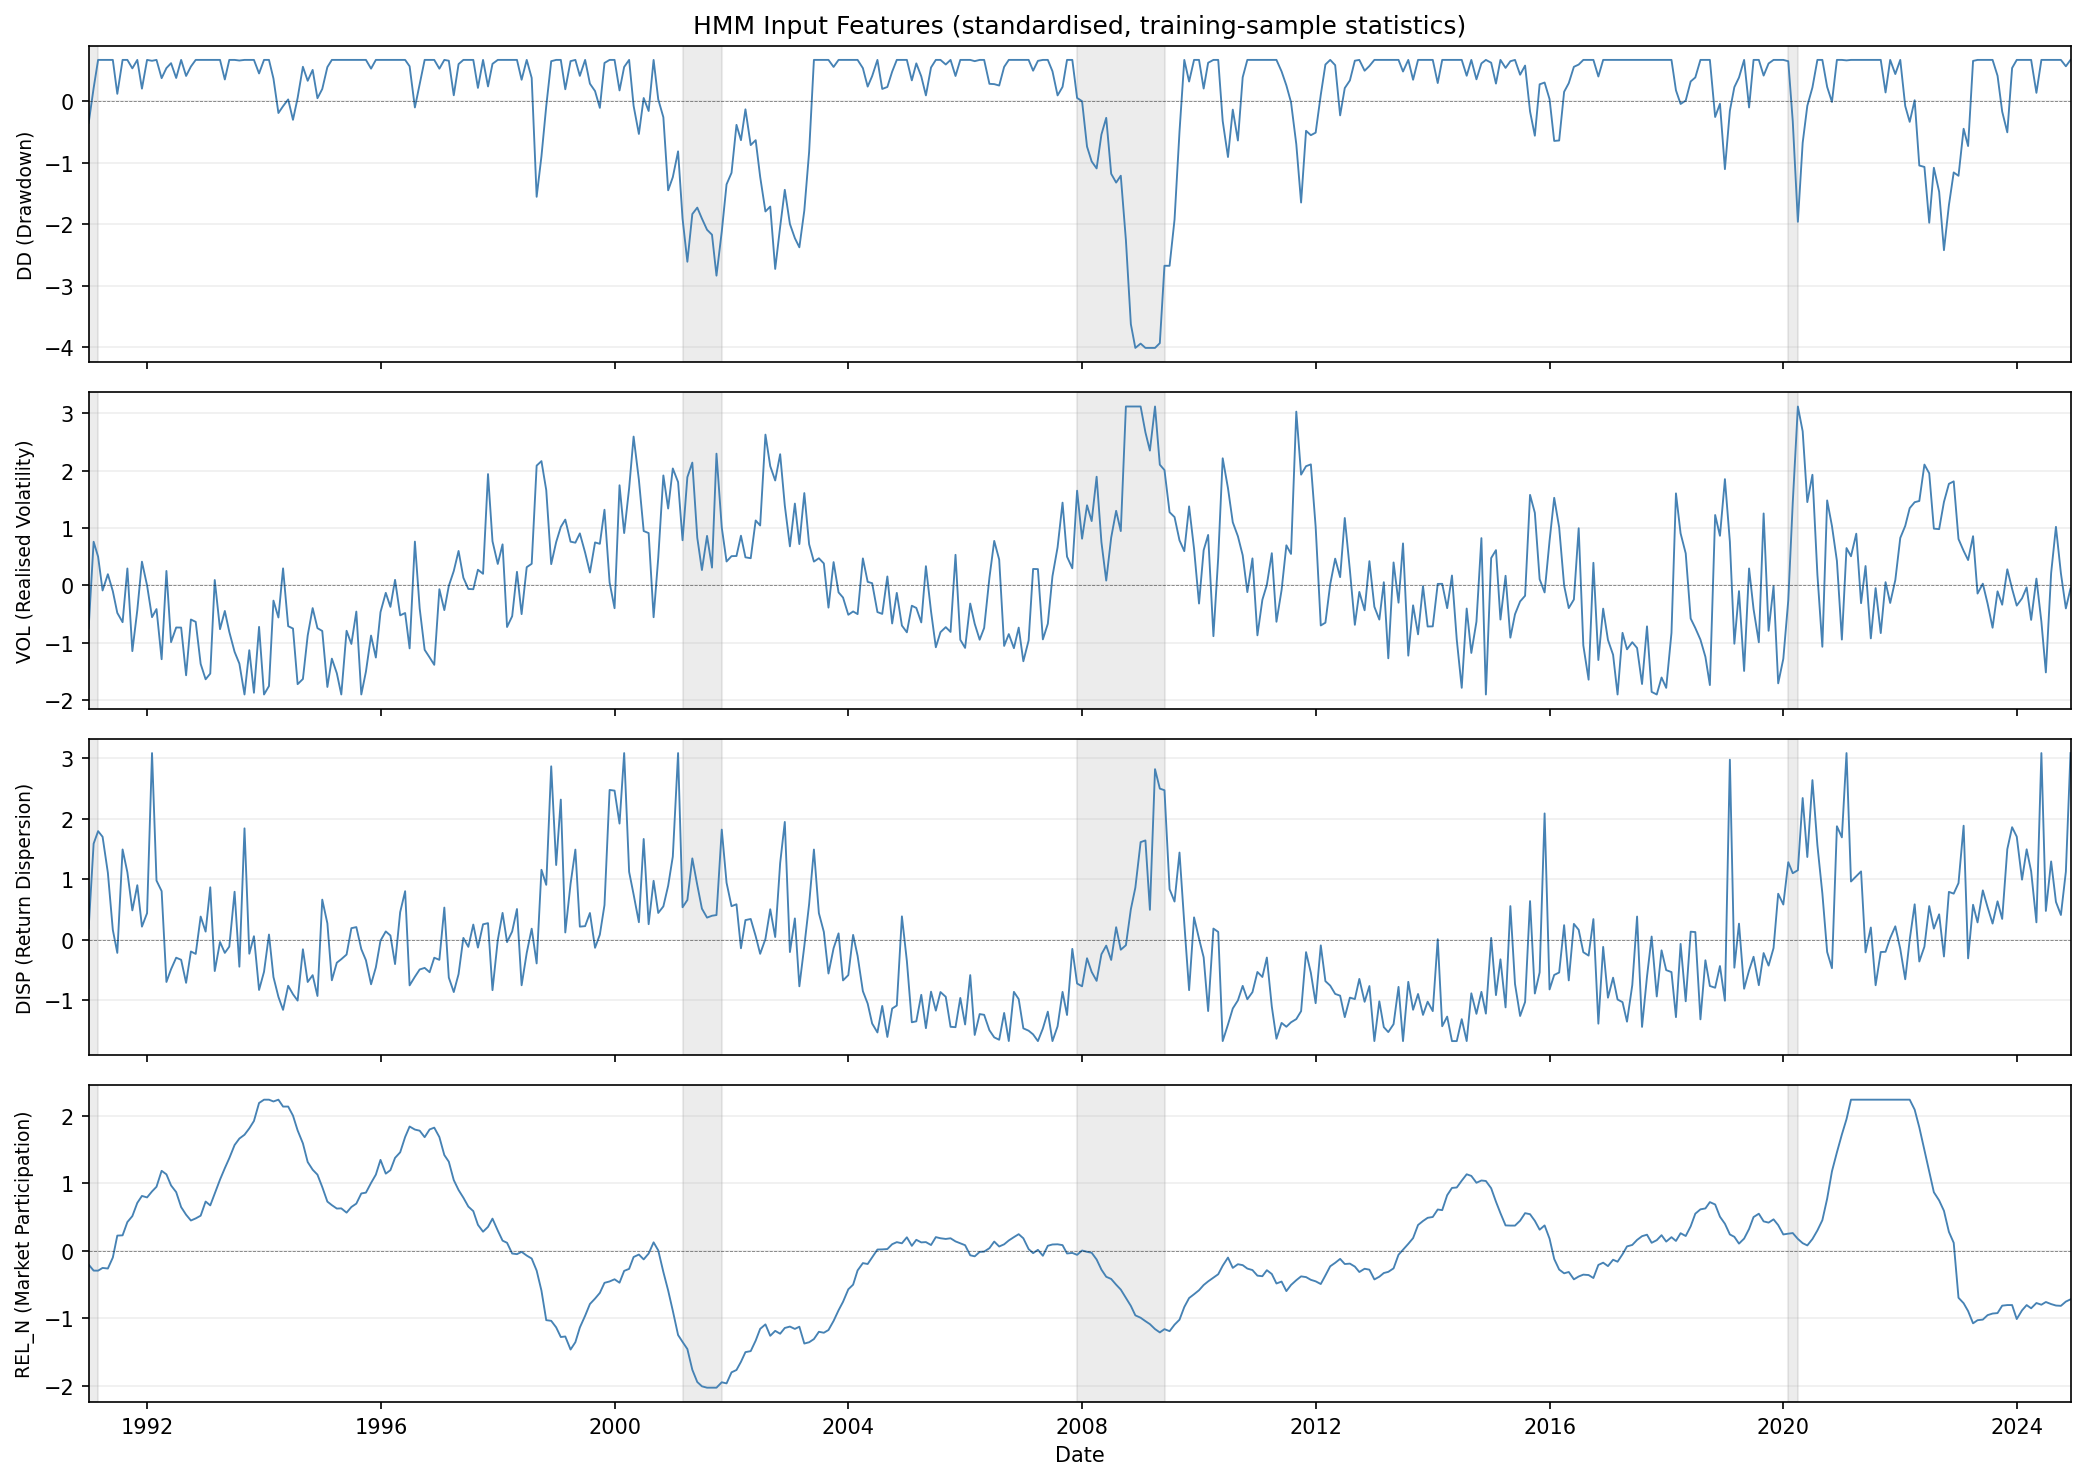
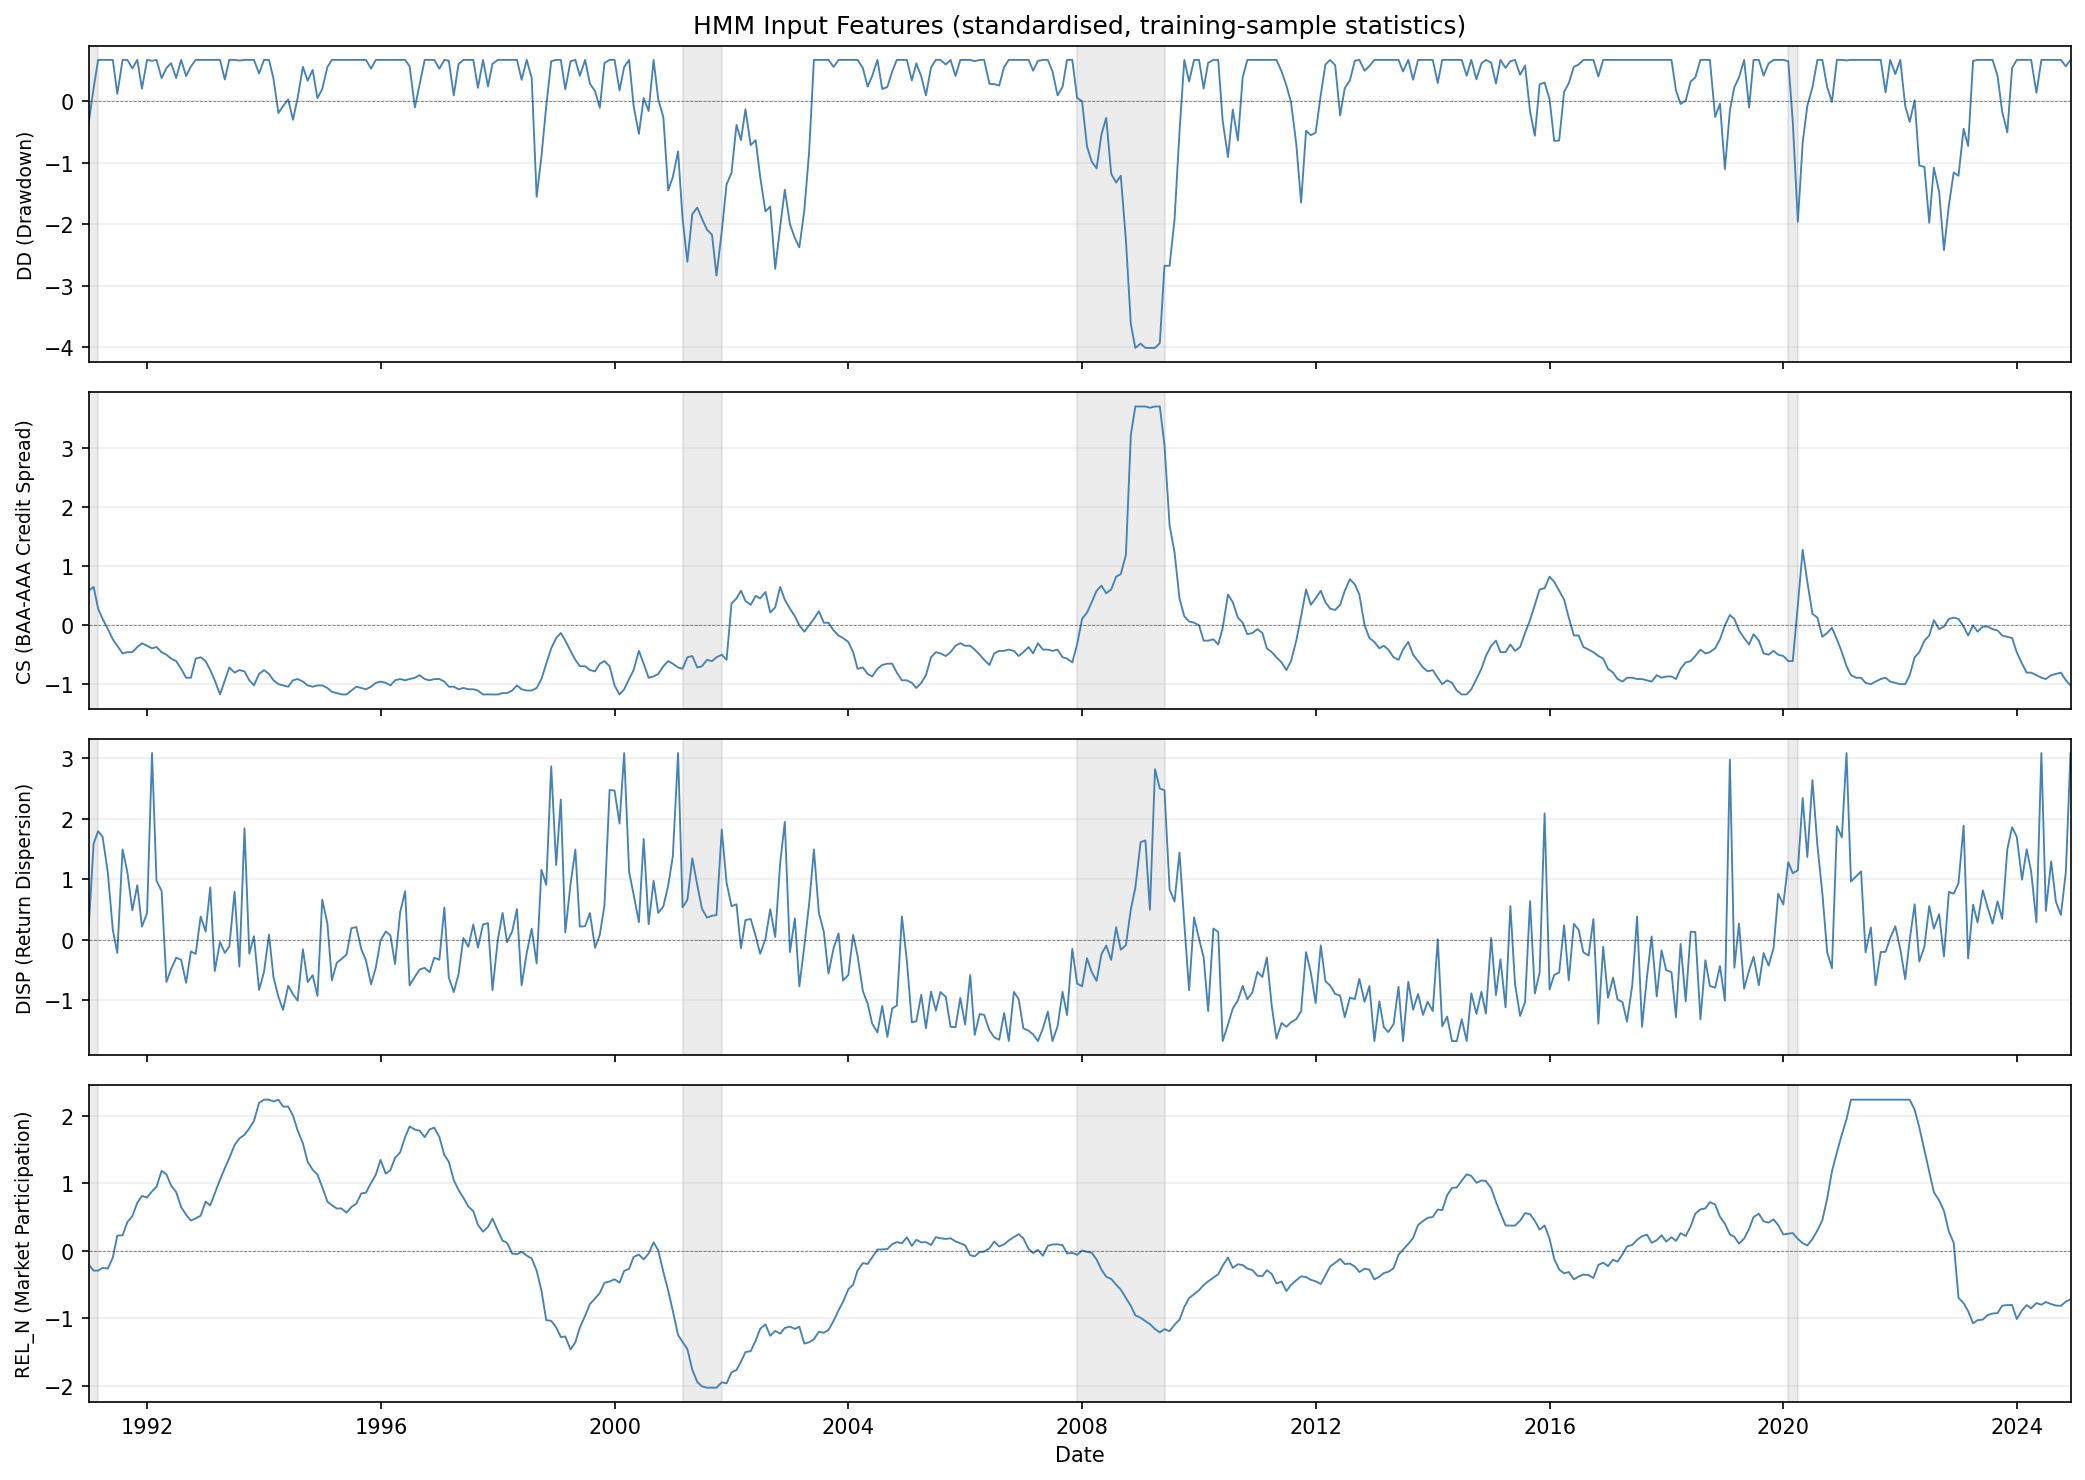
thesis: fix stale features_hmm.png (VOL -> CS) and describe figure
The figure plotted VOL in panel 2 while the caption claimed CS, a
pre-VOL->CS-switch staleness flagged by CLAUDE.md's silent-staleness
incident pattern (thesis-cited assets not produced by the canonical
pipeline run). Updated archive/scripts/regenerate_thesis_plots.py to
load CS_z and updated the panel label, regenerated the PNG, and
verified the new panel shows the GFC credit-spread spike correctly.

In data_section.tex:
- Promoted the inline winsorising explanation to a footnote.
- Added a two-sentence discussion of the four-panel time series
  pointing out the cross-feature co-movement at stress episodes
  (dot-com, GFC, COVID, 2022) and noting that NBER recession bands
  align with the largest joint excursions; the discussion now matches
  what the regenerated figure actually shows.

Snapshot of the stale figure is on disk at
plots/thesis/features_hmm.before-cs-fix.20260506_211243.png (untracked,
matching project convention for rollback baselines).

Follow-up: this generator is currently in archive/scripts/ but produces
a thesis-cited figure, so should eventually be promoted to scripts/
and registered in run_pipeline.py per the thesis-worthy promotion rule
in CLAUDE.md.

diff --git a/latex/data_section.tex b/latex/data_section.tex
@@ -39,7 +39,7 @@ The HMM classifies market regimes using four monthly macrofinancial stress indic
     The credit spread provides an independent signal from the corporate bond market, helping the HMM distinguish genuine stress episodes from equity-specific turbulence.
 \end{enumerate}
 
-All four features are winsorised at the 1st and 99th percentiles (i.e., values below the 1st or above the 99th percentile are capped at those bounds to limit the influence of outliers) using training-sample statistics, and standardised to zero mean and unit variance.
+All four features are winsorised at the 1st and 99th percentiles\footnote{Winsorising at the 1st and 99th percentiles caps any value below the 1st percentile at that bound and any value above the 99th percentile at that bound, limiting the influence of outliers without discarding the observations.} using training-sample statistics, and standardised to zero mean and unit variance.
 
 \begin{figure}[H]
     \centering
@@ -48,6 +48,7 @@ All four features are winsorised at the 1st and 99th percentiles (i.e., values b
     \label{fig:features_hmm}
 \end{figure}
 
+The four series co-move sharply around stress episodes: DD and REL\_N drop while DISP and CS spike during the 2000--2002 dot-com bust, the 2007--2009 Global Financial Crisis, the March 2020 COVID shock, and the 2022 Fed-hiking cycle, with the shaded NBER recession bands aligning with the largest of these joint excursions. This co-movement is what makes a single hidden-state variable viable in the HMM: the four features carry overlapping information about market stress, so one regime label can summarise the multivariate pattern.
 
 \subsection{Feature Selection}\label{sec:feature_selection}
 

diff --git a/archive/scripts/regenerate_thesis_plots.py b/archive/scripts/regenerate_thesis_plots.py
@@ -14,7 +14,7 @@ import pickle
 # ── Load data ───────────────────────────────────────────────────────────────
 
 panel = pd.read_parquet('data/panel.parquet')
-features_z = ['DD_z', 'VOL_z', 'DISP_z', 'REL_N_z']
+features_z = ['DD_z', 'CS_z', 'DISP_z', 'REL_N_z']
 panel = panel.dropna(subset=features_z).reset_index(drop=True)
 
 # Load the saved HMM artefacts to get pi_filter
@@ -101,7 +101,7 @@ print("Saved regime_probabilities.png (single panel)")
 
 feature_labels = {
     'DD_z':    'DD (Drawdown)',
-    'VOL_z':   'VOL (Realised Volatility)',
+    'CS_z':    'CS (BAA-AAA Credit Spread)',
     'DISP_z':  'DISP (Return Dispersion)',
     'REL_N_z': 'REL_N (Market Participation)',
 }
